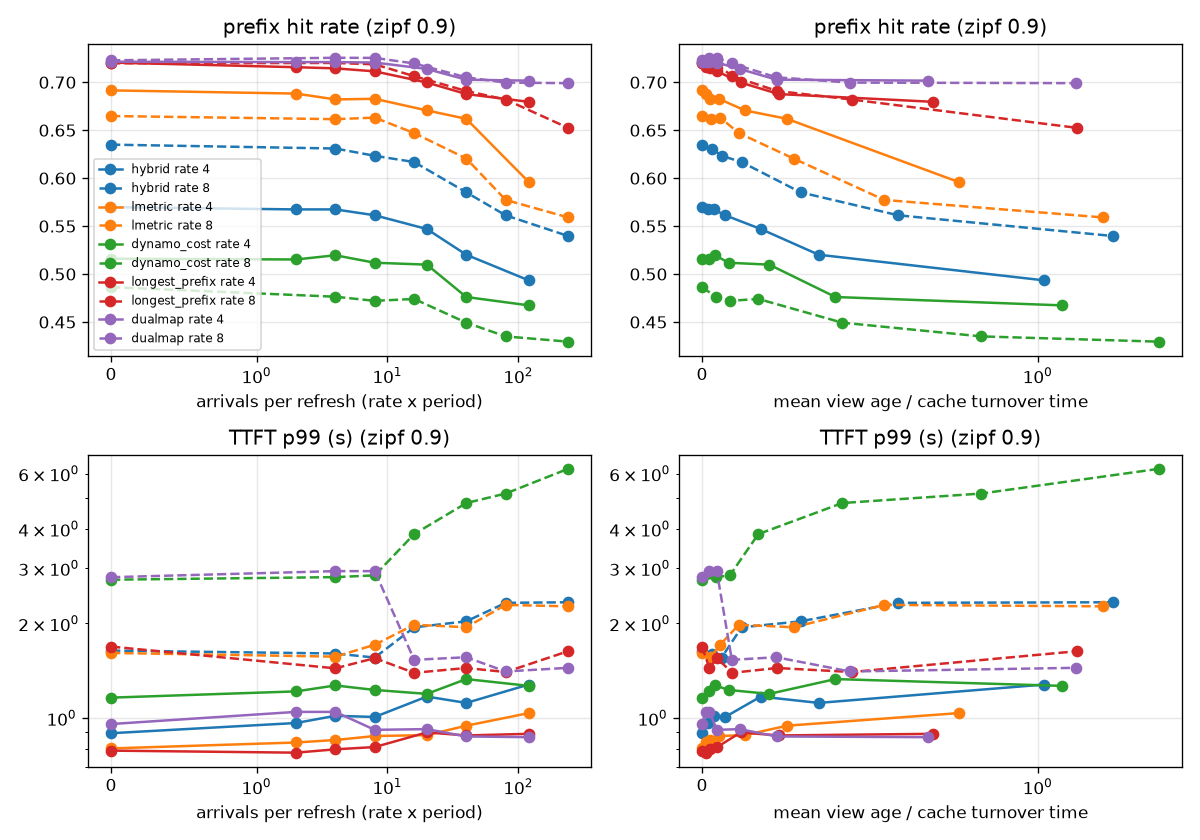
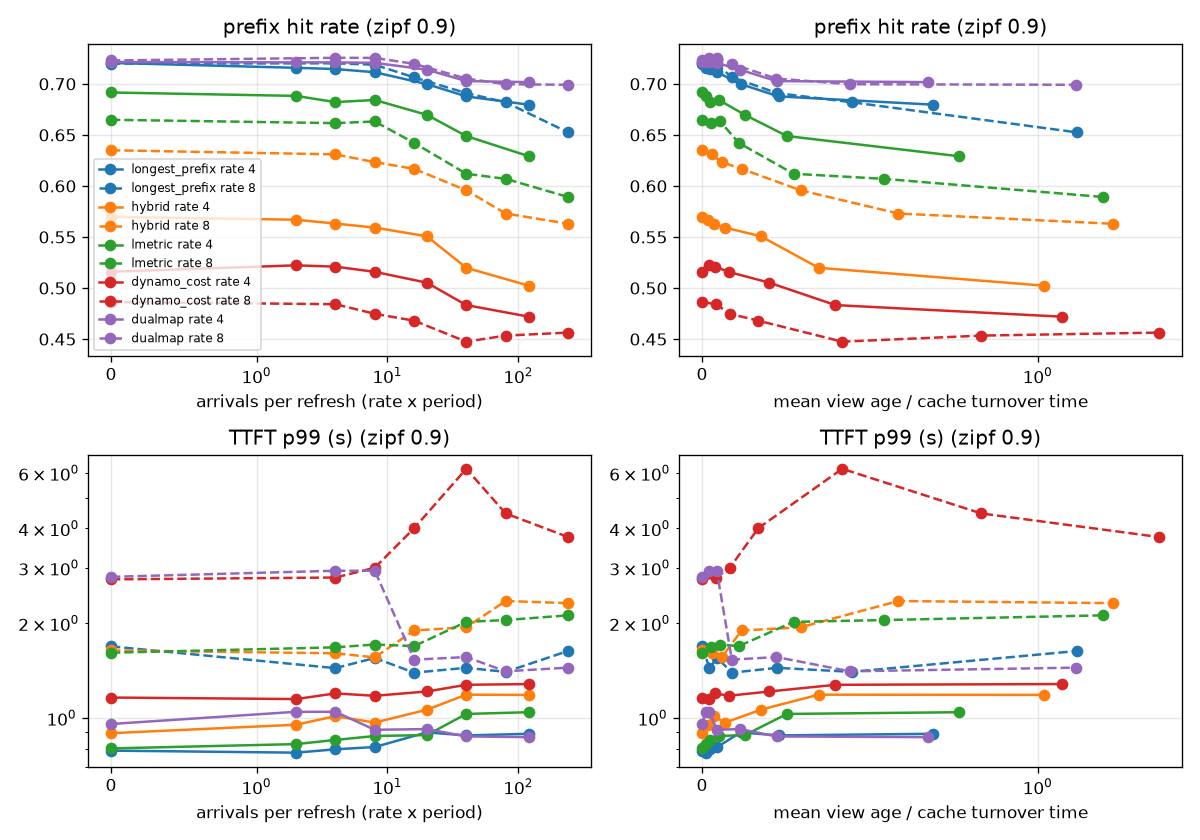
survival treatment re-measured with the corrected view

diff --git a/notes/running_exp.md b/notes/running_exp.md
@@ -221,3 +221,18 @@ longest prefix (any treatment)     0.716   0.715   0.714   0.697   0.692   0.645
   dualmap hit rate              0.414   0.413   0.413   0.413   0.414   0.413   0.411   0.414
   dualmap ttft p99 (s)          6.09    6.11    6.11    6.11    6.05    6.09    6.09    5.96
   p2c / round robin hit rate    0.336 / 0.344, p99 6.76 / 7.06
+
+
+- stale view treatments, corrected survival view (2/9/26, E12 addendum): the survival treatment above was measured with the product-form expected match and fleet-wide rescue rates. re-run after the two corrections from the theory check (nested losses, rescue at the chosen worker), still with che's step lifetime at each policy's own turnover. same setup, cardinal scorers reading `--overlap-source expected`. out/treatment_survival_sweep.png/.csv now hold this run
+    - the treatment is no longer harmful on snapshots. hybrid at 15s mean age 0.537 (raw 0.539, product form 0.510); lmetric 0.600 (raw 0.599, was 0.563). the product form was throwing away most of a long match on the strength of one uncertain block; summing nested survivals keeps it
+    - dynamo cost, the scorer with the most false positives (0.13 of prompt tokens at 15s), is the one it helps: 0.475 vs 0.469 raw at 2.5s mean age, 0.470 vs 0.450 at 5s, 0.457 vs 0.447 at 15s, recovering about 40% of what the stale view cost it. hybrid and lmetric, with fewer false positives, are unchanged within noise
+    - the model's own predicted false positives are still 3-20x below the measured ones here (hybrid 0.041 predicted vs 0.076 measured at 15s, 0.003 vs 0.051 at 2.5s), because the step lifetime says nothing is gone before one turnover of idleness and most evictions happen well before that (p50 8.7s against 14.4s). the treatment therefore barely discounts at the ages where a snapshot actually lies. the residence-cdf lifetime, which the theory check validated, is the next run
+    - rankers unchanged, as before
+
+-  hit rate, corrected survival     P=0     0.5      1       2       5      10      30
+  hybrid raw                      0.597   0.596   0.595   0.593   0.566   0.549   0.539
+  hybrid survival (step)          0.597   0.595   0.590   0.591   0.562   0.546   0.537
+  lmetric raw                     0.673   0.678   0.671   0.666   0.641   0.623   0.599
+  lmetric survival (step)         0.673   0.676   0.666   0.666   0.646   0.621   0.600
+  dynamo cost raw                 0.499   0.497   0.487   0.490   0.469   0.450   0.447
+  dynamo cost survival (step)     0.499   0.497   0.495   0.483   0.475   0.470   0.457
